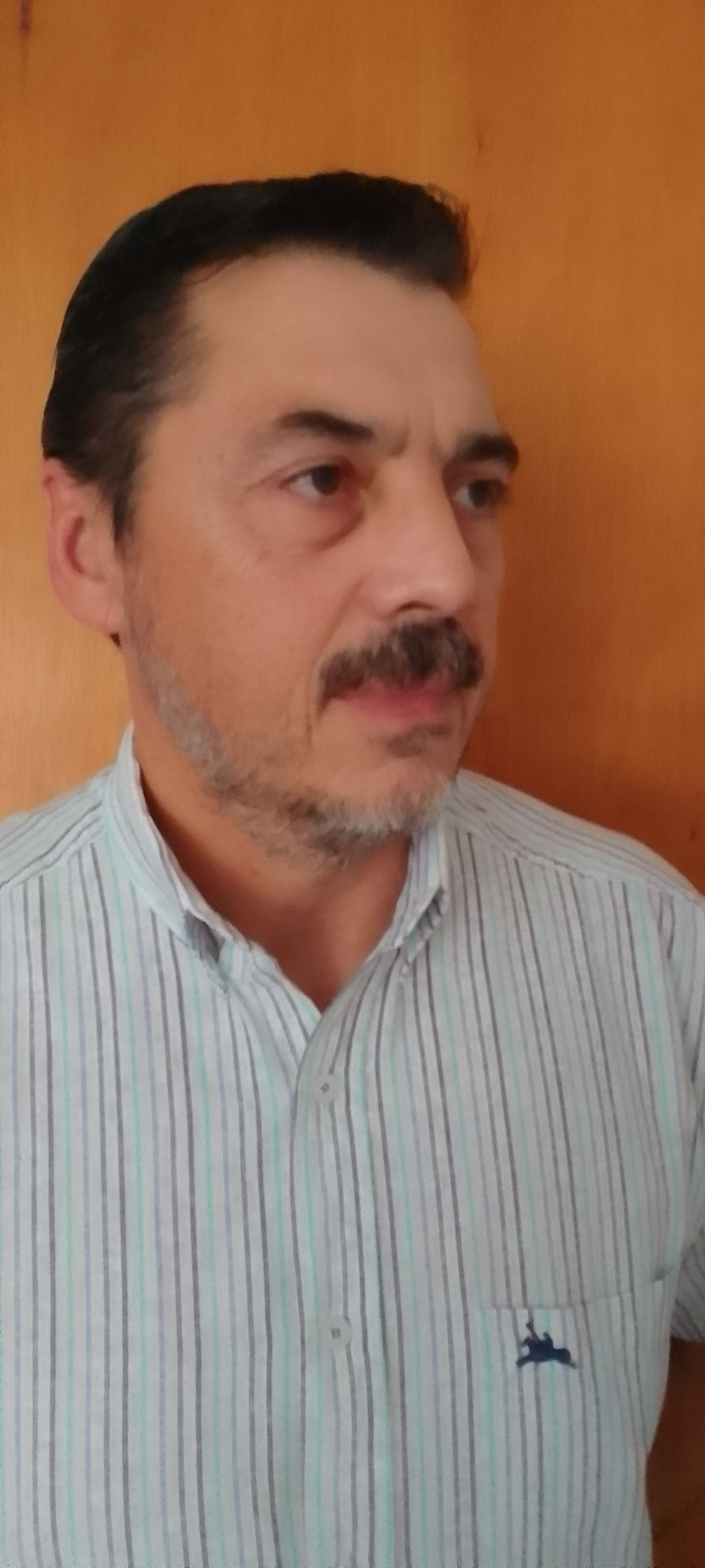
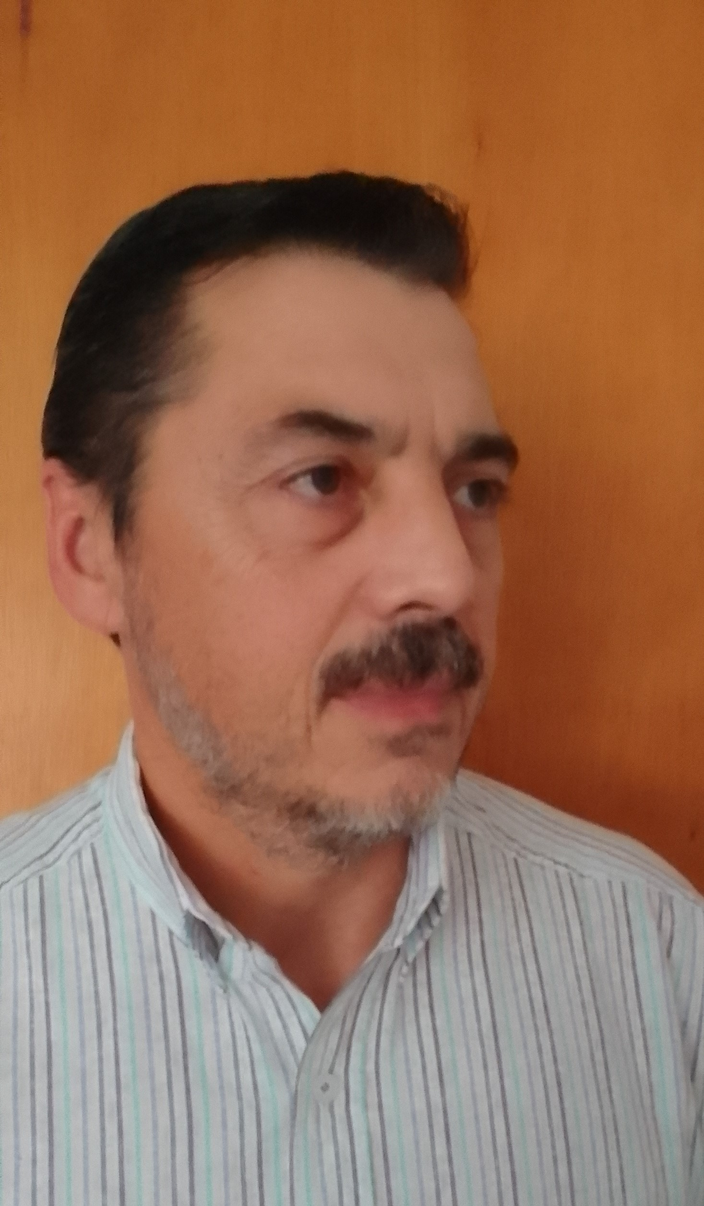
ajustes de estilo

diff --git a/index.html b/index.html
@@ -16,7 +16,7 @@
     <header>
         <figure id = "imagen">
             <img src="Imagenes/Mario-Martini.jpg" alt="imagen de perfil de Mario Martini"
-            heigth = "150 px" width="100 px" > 
+            heigth = "200 px" width="150 px" > 
         </figure>
 
         <div id = "resenia">
@@ -38,9 +38,11 @@
 
     <section class = "contenedor" id = "informacion_personal">
         <h2>Información Personal</h2>
-        <li>Fecha Nacimiento : 03 de enero de 1968</li>
-        <li>Lugar : Gualeguay - Entre Ríos - Argentina</li>
-        <li>Domicilio : Profesor Enrique Godoy 965 - Paraná (3100) - ER </li>
+        <ul id = "lista_informacion_personal">
+            <li>Fecha Nacimiento : 03 de enero de 1968</li>
+            <li>Lugar : Gualeguay - Entre Ríos - Argentina</li>
+            <li>Domicilio : Profesor Enrique Godoy 965 - Paraná (3100) - ER </li>
+        </ul>    
 
     </section>
 
@@ -50,6 +52,7 @@
             <li>Encargado Administrativo</li>
             <li>Coordinador Financiero</li>
             <li>Coordinador Contable</li>
+            
         </ul>
     </section>
 

diff --git a/css/estilos.css b/css/estilos.css
@@ -6,29 +6,31 @@ body {
 }
 
 header {
-    height: 200px;
+    height: 250px;
     display: flex;
-    columns: 1fr 2fr;
+    columns: 1fr 1fr 2fr;
     background-color: lightgrey;
     padding: 25px;
     margin: 15px;
 }
 
+#resenia {
+    display: grid;
+    grid-template-rows: 30fr 20fr 20fr 20fr 10fr ;
+}
+
 section {
     padding: 25px;
+    margin: 15px;
+    border;
 }
 
 #imagen {
-    width: 100; height: 150;
+    width: 150; height: 2000;
    
 }
 
 
-nav {
-    
-    
-    align-items: normal;
-}
 
 .barra_de_botones {
     width: 500px;
@@ -41,8 +43,16 @@ nav {
 .link_ancla {
     margin: 5px;
     padding: 5px;
-    border-style: double;
+    border-radius: 0%;
     border-color: blue;
+}
+
+#lista_informacion_personal > li {
+    list-style: none;
+}
+
+ul {
+    font-size: 20px;
 }
 
 .contenedor {
